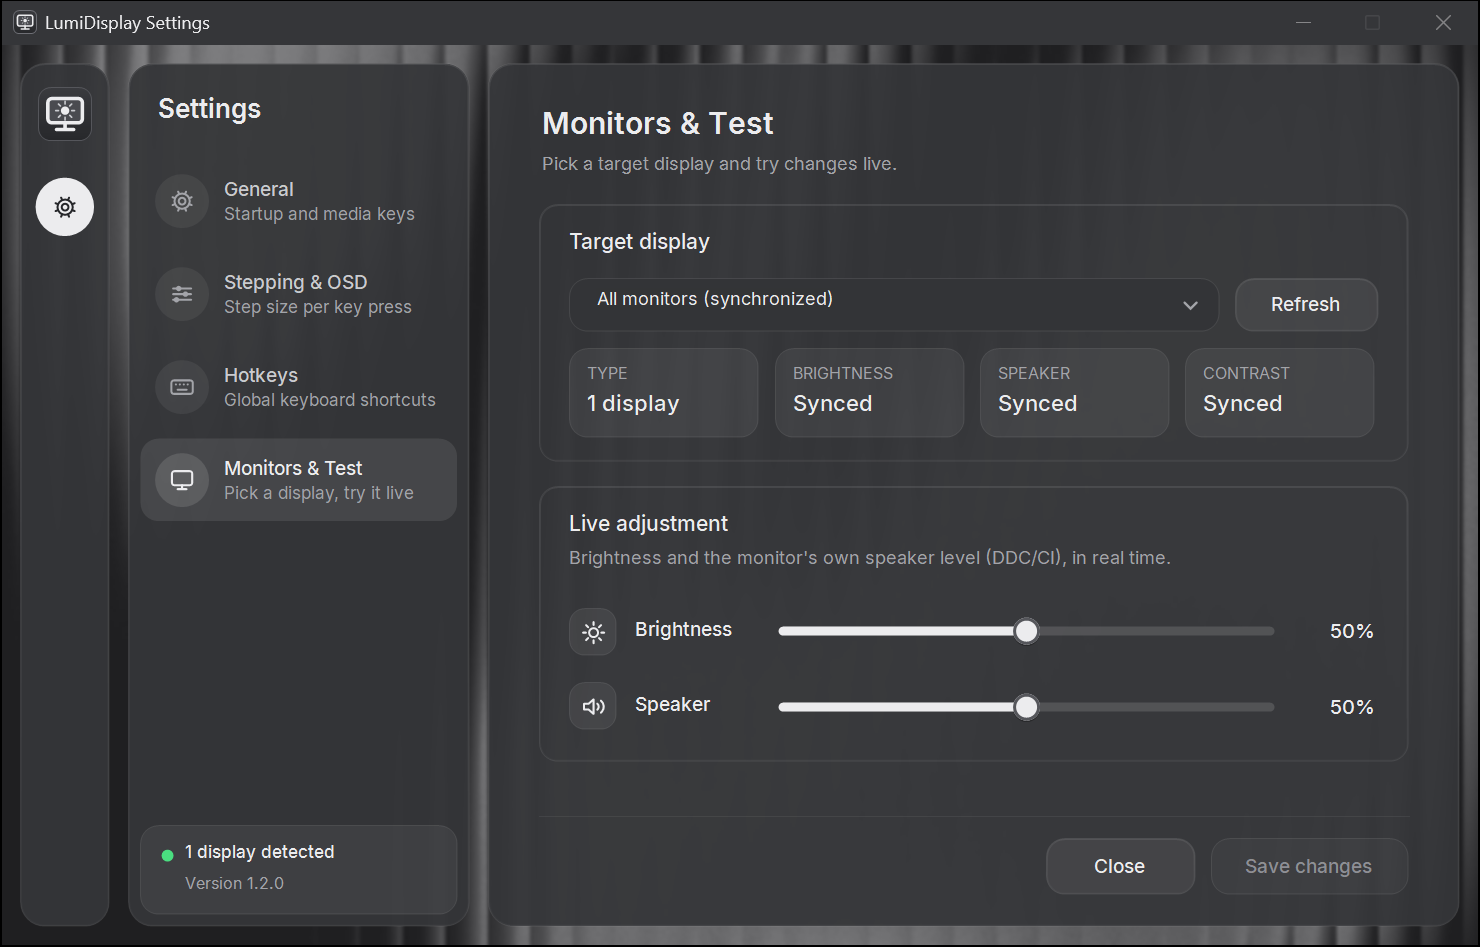
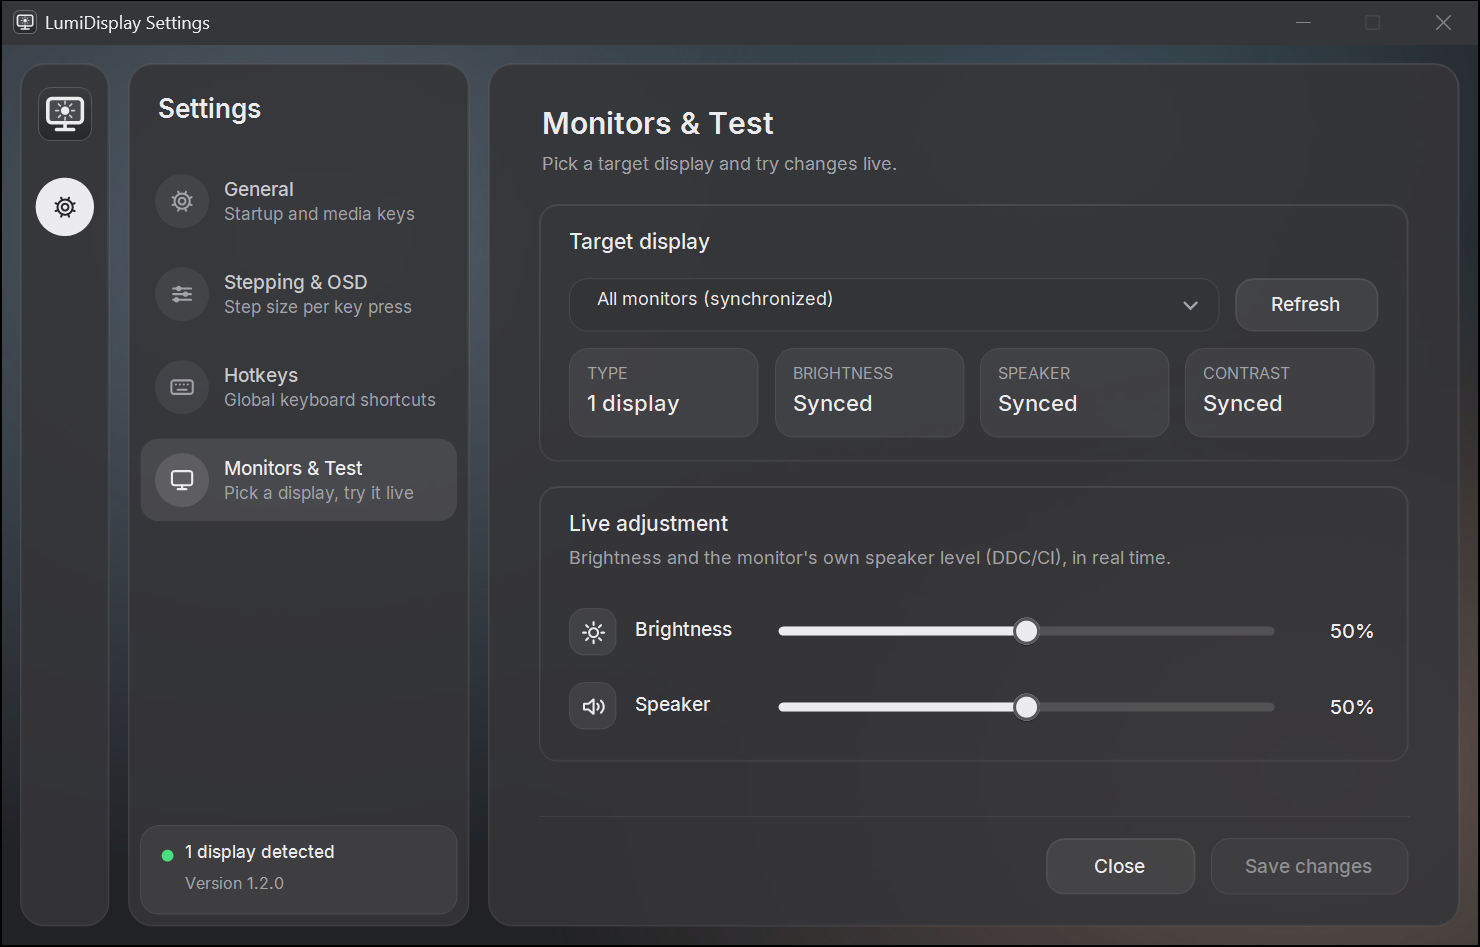
feat(settings): soft dark gradient background

diff --git a/src/LumiDisplay/Glass.cs b/src/LumiDisplay/Glass.cs
@@ -19,7 +19,7 @@ internal interface IGlassSurface
 }
 
 /// <summary>
-/// "Liquid glass" for the settings window, over the app's own black-and-white background image
+/// "Liquid glass" for the settings window, over the app's own soft gradient background image
 /// (Assets/background.jpg).
 ///
 /// Two layers are pre-rendered at the window's client size, so every control copies exactly the
@@ -110,7 +110,7 @@ internal static class Glass
     public static readonly Color WindowWash = Color.FromArgb(200, 40, 41, 44);
 
     /// <summary>Wash over the background image between the glass panels (no text sits there).</summary>
-    public const int BackgroundWashAlpha = 150;
+    public const int BackgroundWashAlpha = 40;
 
     /// <summary>Lightest wash a glass panel gets, even over a dark image.</summary>
     public const int WindowWashAlpha = 200;
@@ -256,7 +256,7 @@ internal static class Glass
 
     private static Bitmap? _background;
 
-    /// <summary>The background image (embedded, black and white), loaded once. Null if it can't be read.</summary>
+    /// <summary>The background image (embedded gradient), loaded once. Null if it can't be read.</summary>
     private static Bitmap? Background()
     {
         if (_background != null) return _background;
